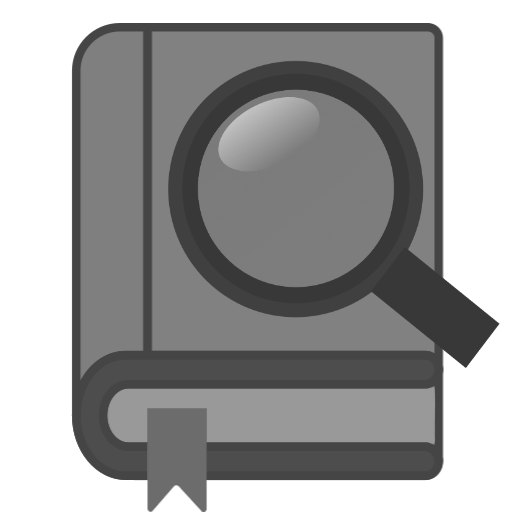
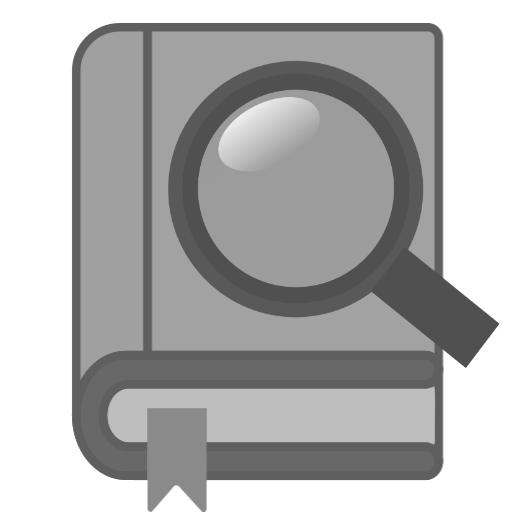
Basic content of Extend-Tools

diff --git a/css/extend-styles.css b/css/extend-styles.css
@@ -1,0 +1,81 @@
+.word-div {
+    width: 550px;
+    padding: 20px;
+    padding-left: 70px;
+    margin-bottom: 38px;
+    text-align: center;
+    
+    background: linear-gradient(to right bottom, #bebebe, #dedede);
+    box-shadow: 25px 25px 30px gray;
+    border-radius: 50px;
+    outline: solid #a0a0a0 7px;
+
+    margin-left: auto;
+    margin-right: auto;
+}
+
+.text-input {
+    width: 440px;
+    height: 36px;
+    
+    font: bold 27px 'Arial';
+    text-align: center;
+    margin-bottom: 24px;
+    color: #696969;
+
+    border-radius: 15px;
+    border: none;
+    outline: solid #8c8c8c 5px;
+
+    box-shadow: 13px 13px 30px #676767;
+    background: linear-gradient(to right bottom, #eaeaea, white);
+    transition: 0.2s;
+    margin-left: -10px;
+}
+.text-input:focus {
+    box-shadow: 14px 14px 25px #434343;
+    transition: 0.2s;
+}
+.text-input::placeholder {
+    font: bold 22px 'Arial';
+    color: #c7c7c7;
+    text-align: center;
+}
+
+.text-input + img {
+    position: absolute;
+    width: 50px;
+    display: none;
+    cursor: pointer;
+
+    margin-top: -10px;
+}
+
+div.desc {
+    font: bold 27px 'Caladea';
+    margin-bottom: -10px;
+    color: #898989;
+}
+
+.decoration {
+    background: radial-gradient(white, #ababab);
+    outline: solid #878787 8px;
+    padding: 2px;
+
+    border-radius: 50%;
+    float: left;
+    
+    width: 60px;
+    height: 60px;
+    position: relative;
+    margin-right: -90px;
+    margin-top: -10px;
+}
+.decoration img {
+    width: 70px;
+    position: relative;
+    z-index: 3;
+
+    margin-left: -5px;
+    margin-top: -5px;
+}

diff --git a/css/tools-styles.css b/css/tools-styles.css
@@ -142,7 +142,7 @@
 }
 
 /* Stronger Brightness of Images */
-img[src*="dictionary.png"], img[src*="search.png"] {
+img[src*="search.png"] {
     filter: brightness(130%);
 }
 img[src*="tags.png"], img[src*="folder.png"] {

diff --git a/css/styles.css b/css/styles.css
@@ -36,6 +36,7 @@
     font: bold 80px 'Caladea';
     line-height: 120px;
     text-shadow: 3px 3px 10px #5e5e5e;
+    text-align: center;
 
     outline: solid #8a8a8a 12px;
     border-radius: 40px;

diff --git a/extend-tools.php b/extend-tools.php
@@ -1,0 +1,47 @@
+<!DOCTYPE html>
+<html lang="pl">
+<head>
+    <meta charset="UTF-8">
+    <title>Słownik - Dodaj Hasła</title>
+    <link rel="icon" href="images/logo.png" type="image/png">
+    <link rel="stylesheet" href="css/styles.css" type="text/css">
+    <link rel="stylesheet" href="css/extend-styles.css" type="text/css">
+    <script src="scripts/library.js"></script>
+</head>
+<body>
+<!-- Logo -->
+<div id="logo">
+    <div id="image-div">
+        <img src="images/logo.png">
+    </div>
+    <div id="name-div">
+        <div>Lang Store</div>
+        <div id="page-name">
+            <div id="page-icon">
+                <img src="images/tools.png">
+                <div>Dodaj Hasła</div>
+            </div>
+        </div>
+    </div>
+    <div style="clear: both;"></div>
+</div>
+
+<div class="word-div">
+    <!-- Word - Robots -->
+    <div class='desc'>Słowo</div><br>
+    <div class="decoration">
+        <img src="images/dictionary.png"><br>
+    </div>
+    <input id="content" class="text-input" onkeyup="changeInput(0)" placeholder="Wpisz Hasło">
+    <img src="images/dictionary.png" id="dict1"><br>
+    
+    <!-- Translated - Polish -->
+    <div class='desc'>Znaczenie</div><br>
+    <div class="decoration">
+        <img src="images/examples.png"><br>
+    </div>
+    <input id="translated" class="text-input" onkeyup="changeInput(1)" placeholder="Wpisz Znaczenie">
+    <img src="images/dictionary.png" id="dict2"><br>
+</div>
+</body>
+</html>
